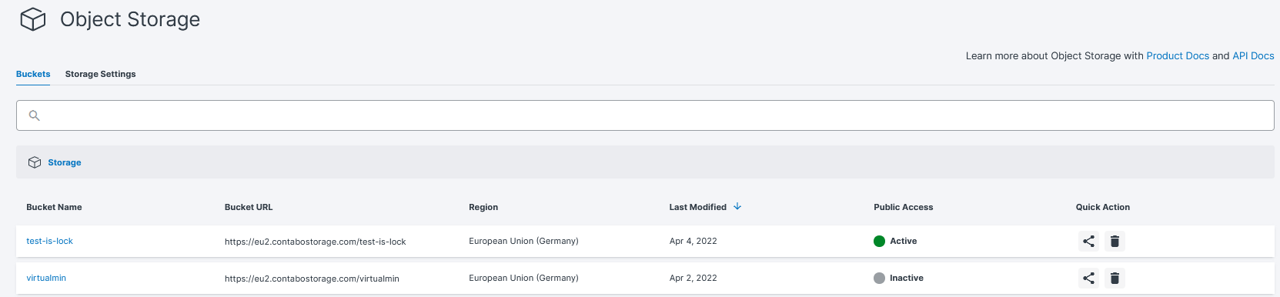
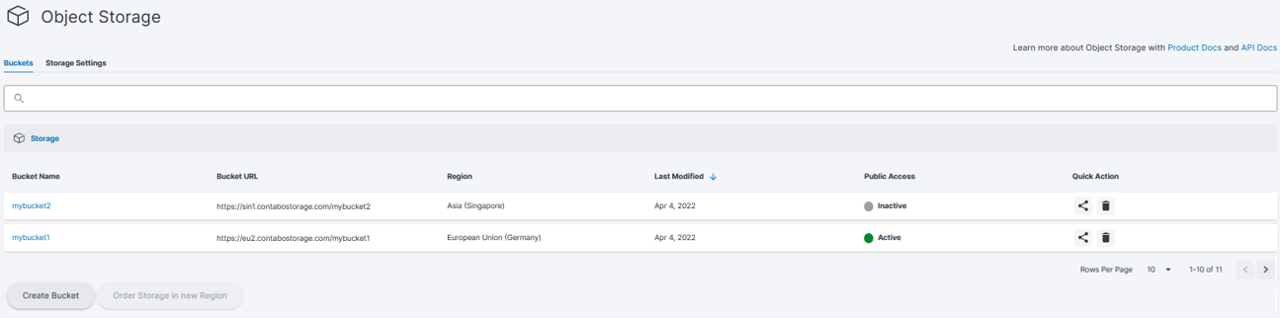
new images, new chapter manual scale, new chapter fill bucket, modified existing chapters minor

diff --git a/docs/Object-Storage/Tutorial/CreateAndFillBucket.md b/docs/Object-Storage/Tutorial/CreateAndFillBucket.md
@@ -1,0 +1,78 @@
+---
+sidebar_position: 5
+---
+
+# Create and Fill Buckets in Object Storage 
+
+User can use their object storage capacity to store so calles objects, i.e. files and folders. For this they need to create buckets in the corrensponding storage and fill them with data. 
+
+## How can I create a new bucket? 
+
+Each data is stored in buckets. To create a new bucket in your object storage, the following steps need to be followed: 
+
+* Log into your Object Storage Panel. You see a list of all of your buckets. 
+* Click the button 'Create Bucket'. The following menu appears: 
+<p align="center">
+<img src="/img/products/object-storage/tutorial/createBucket.png" alt="Create new Bucket"/>
+</p>
+* Name your bucket and select the region where the bucket should be placed at. This is possible in every region you own object storage. 
+* Confirm the settings by hitting 'Create Bucket.' 
+* The bucket then appears in the overview of all your active buckets and can be filled with files and folders. 
+
+
+## Where can I see all my active buckets? 
+
+In your Object Storage Panel you find an overview of all your current buckets (see image below):
+<p align="center">
+<img src="/img/products/object-storage/tutorial/bucketoverview.png?raw=true" alt="Bucket Overview"/>
+</p>
+
+This table includes the following properties: 
+* Name of the bucket
+* Bucket URL 
+* Region of Object Storage the bucket was created in
+* Last modification date of the bucket
+* Status of public access. If active, the bucket is public. 
+
+Further, you can execute the following actions: 
+* Enable / Disable public sharing (see [here](/docs/Object-Storage/Tools/shareWithPublic)). 
+* Delete the bucket. This action is only possible if bucket empty. All objects in bucket must be removed first. 
+
+## Where can I see the objects in my bucket? 
+
+In your Object Storage Panel you find an overview of all your current buckets (see image above). To get an overview about all objects (i.e. files and folders) in a specific bucket go to its detail view by clicking on its name. This action leads you to the bucket detail view where all objects in this bucket are listed.
+<p align="center">
+<img src="/img/products/object-storage/tutorial/bucketdetailview.png" alt="Bucket Detail View"/>
+</p>
+
+The table includes the following properties: 
+* Name of object 
+* Type of object 
+* Date of last modification 
+* Size
+* Status of public sharing. If active, the object is public. 
+
+On each object you can execute the following actions: 
+* Public sharing. If active, the file / folder can be shared with a link to the public ((see [here](/docs/Object-Storage/Tools/shareWithPublic)). 
+* Delete object
+* Download (only for files) 
+* Detail view (only for files)
+* Copy To. Copies the object to another selected bucket. 
+
+
+## How can I add new objects to a Bucket?
+
+To add new objects (i.e. files and folders) to a bucket go to its detail view. 
+
+For uploading files in the bucket click the button 'Upload File'. This opens the following menu to upload files by drag and drop or file 3selection. 
+<p align="center">
+<img src="/img/products/object-storage/tutorial/uploadFileToBucket.png" alt="Bucket File Upload"/>
+</p>
+
+
+For creating a new folder in your bucket click on the button 'Create Folder'. This opens the following menu:
+<p align="center">
+<img src="/img/products/object-storage/tutorial/createFolderinBucket.png" alt="Bucket Folder Upload"/>
+</p>
+
+

diff --git a/docs/Object-Storage/Tutorial/manualscale.md b/docs/Object-Storage/Tutorial/manualscale.md
@@ -1,0 +1,30 @@
+---
+sidebar_position: 2
+---
+
+# Manual Increase of Storage Capacity
+
+When purchasing Object Storage its capacity needs to be specified during the order process.
+However, this storage space can be expanded at a later date.
+
+## How can I increase the capacity of my Storage?
+
+To increase the capacity of the storage: 
+* Log into your Object Storage Panel
+* Open the tab 'Storage Settings' (see also in image above)
+* Select a storage, go to 'more' and click on 'Add more GB'. The following menu appears:
+<p align="center">
+<img src="/img/products/object-storage/tutorial/manualscaleSettings.png?" alt="Manual Scale Settings"/>
+</p>
+
+In the menu you can set the amount of capacity you want your storage to increse in steps of 250GB. 
+After confirming the setting by hitting the 'Add & Pay' button the increased capacity is available to use. 
+
+## Where can I find more Product and Pricing Information about adding capacity to my Storage?
+
+For general product and pricing information please see [here](https://contabo.com/en/object-storage).
+
+## How can I add more space to my Storage automatically?
+
+By activating the Auto-Scaling feature the capacity of your storage increases automatically up to a preselected limit (in TB) as soon as the initially purchased limit is reached.
+More information about the Auto-Scaling feature you find [here](/docs/Object-Storage/Tutorial/autoscale).

diff --git a/docs/Object-Storage/Tutorial/autoscale.md b/docs/Object-Storage/Tutorial/autoscale.md
@@ -20,7 +20,7 @@ In your object storage overview you can find the column 'Auto-Scaling Status' (s
 
 To activate auto-scaling:
 
-* Login to your Object Storage Panel
+* Log into your Object Storage Panel
 * Open the tab 'Storage Settings' (see also in image above)
 * Select a storage, go to 'more' and click on 'Auto-Scaling Settings'
 
@@ -39,4 +39,4 @@ For general product and pricing information please see [here](https://contabo.co
 
 ## How can I add more space to my Storage without Auto-Scaling?
 
-If you want to expand the memory of your storage permanently and immediately please use the 'Add more GB' option in your storage settings instead.
+If you want to expand the memory of your storage permanently and immediately please use the 'Add more GB' option in your storage settings instead (see [here](/docs/Object-Storage/Tutorial/manualscale).).

diff --git a/docs/Object-Storage/Tutorial/shareWithUserManagement.md b/docs/Object-Storage/Tutorial/shareWithUserManagement.md
@@ -1,5 +1,5 @@
 ---
-sidebar_position: 3
+sidebar_position: 4
 ---
 
 # Share Object Storage with selected users

diff --git a/docs/Object-Storage/Tutorial/shareWithPublic.md b/docs/Object-Storage/Tutorial/shareWithPublic.md
@@ -1,5 +1,5 @@
 ---
-sidebar_position: 2
+sidebar_position: 3
 ---
 
 # Share Object Storage with public
